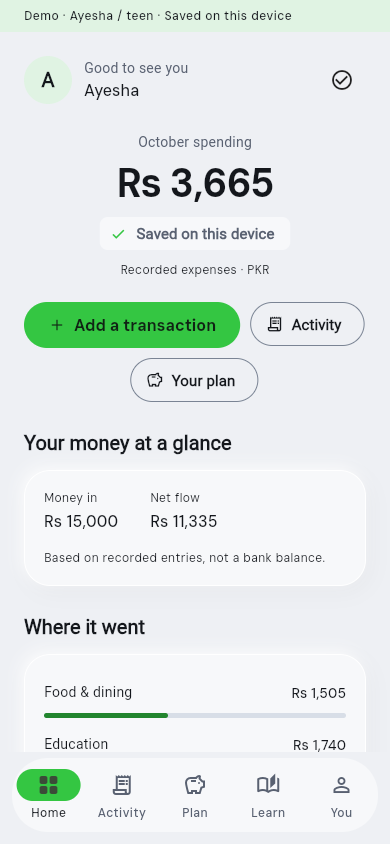
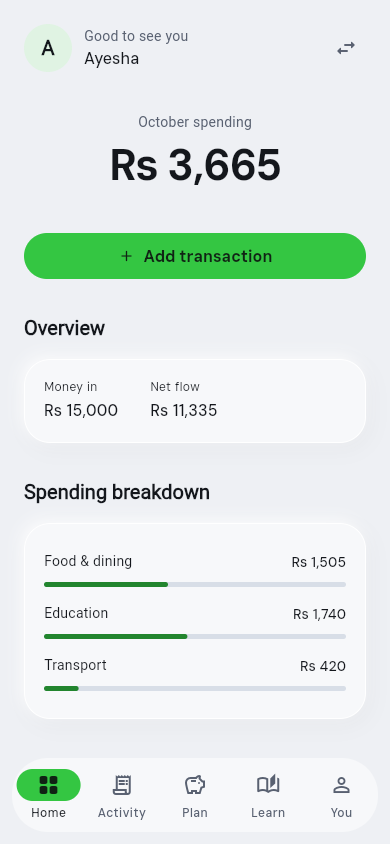
docs: document minimal interaction patterns and refreshed screen evidence

diff --git a/docs/VERIFICATION.md b/docs/VERIFICATION.md
@@ -1,8 +1,8 @@
 # Demo verification
 
-21 domain, repository, controller and widget tests passed. Coverage includes persistent shared demo records, persona restoration, reset, mutual family approval, read-only parent enforcement, access removal, exact money parsing, validated transactions/budgets/goals, and narrow/large-text layouts. Analyzer is clean.
+25 domain, repository, controller and widget tests passed. Coverage includes persistent shared demo records, persona restoration, reset, mutual family approval, read-only parent enforcement, access removal, exact money parsing, validated transactions/budgets/goals, narrow/large-text layouts, profile/appearance sheets, retained searches, empty-filter recovery, carousel buttons and startup skeleton. Analyzer is clean.
 
-Web release compilation and Windows Android arm64 debug APK compilation pass. Chrome at 390 × 844 verified teen and parent dashboards, Plan, Learn, persona switching and parent restoration after reload, with zero page errors. Light and dark screenshots were visually inspected. Widgets cover 320px and 200% text scaling. This is targeted usability/accessibility verification, not certification of every HCI principle or an assistive-device audit.
+Web release compilation and Windows Android arm64 debug APK compilation pass. Chrome at 390 × 844 verified teen and parent dashboards, Plan, Learn, persona switching, transaction save feedback, live total updates, search retention, goal creation/carousel navigation, appearance changes and parent restoration after reload, with zero page errors. Light and dark screenshots were visually inspected. Widgets cover 320px and 200% text scaling. This is targeted usability/accessibility verification, not certification of every HCI principle or an assistive-device audit.
 
 Measured light-theme sRGB contrast: button text #102314 on #34C642 **7.31:1**; body #14171C on #EEF0F4 **15.74:1**; secondary #596171 on #EEF0F4 **5.46:1**; readable green #216D2C on #F7F8FA **6.01:1**. Selected navigation icons use dark primary text in both themes.
 
@@ -15,3 +15,11 @@ Demo records stay on this device. Authentication and cloud synchronization are d
 | Introduction | Learning | Dark theme |
 |---|---|---|
 | ![Introduction](screenshots/onboarding.png) | ![Learning](screenshots/learn.png) | ![Dark](screenshots/teen-dark.png) |
+
+| Profile sheet | Settings | Transaction sheet |
+|---|---|---|
+| ![Profile sheet](screenshots/profile-sheet.png) | ![Settings](screenshots/settings.png) | ![Transaction](screenshots/transaction-sheet.png) |
+
+| Activity | Goal carousel |
+|---|---|
+| ![Activity](screenshots/activity.png) | ![Goal carousel](screenshots/goals-carousel.png) |

diff --git a/docs/DESIGN.md b/docs/DESIGN.md
@@ -7,3 +7,11 @@ Light: canvas #EEF0F4, surface #F7F8FA, text #14171C, secondary text #596171, pr
 DM Sans is bundled. Large amounts use tabular figures. Home centers recorded monthly spending, followed by explicit actions and supporting metrics. Activity, Plan, Learn, You, onboarding, forms and family settings share tokens and components. Native Material controls provide semantics, focus and selection behavior. Forms use native numeric keyboards, persistent labels and inline validation; deletion/reset require confirmation. Parent controls remain read-only in both the UI and controller. Layouts scroll and adapt to large text rather than truncating financial records.
 
 The reference does not define dark, error, loading or large-text states; these are Bachat adaptations required by the user's request for an integrated usable app. No bank transfers, payment keypad or unsupported banking action is implied.
+
+## Minimal interface polish
+
+Headings are concise, amounts use a 44px tabular display style, and section spacing is 36px above / 18px below. One primary action per screen replaces duplicate navigation actions. Repeated demo/storage notices and explanatory paragraphs are removed. Identity remains visible through names and roles; read-only child access is labeled.
+
+Profile and appearance settings open native modal sheets. Forms share drag handles, rounded sheet surfaces, keyboard-aware padding and dismissible confirmation feedback. Learning uses a compact coming-soon badge; savings and over-budget badges carry meaningful status. Multiple home goals become a horizontally scrollable carousel with visible continuation and keyboard-accessible previous/next controls. A single goal remains a card.
+
+Navigation retains each tab’s state and uses a restrained 150ms selection animation. Reduced motion disables sheet/carousel movement and selection animation; theme swaps are instantaneous. The static startup skeleton reflects actual initialization without introducing a delay or perpetual shimmer.

diff --git a/README.md b/README.md
@@ -9,7 +9,7 @@ Run with Flutter **3.47.7 / Dart 3.13.5**:
 ./scripts/dev.ps1
 ```
 
-Preview: http://127.0.0.1:8080. Choose **Skip introduction**, then explore as **Ayesha** (teen, 16) or **Sana** (parent). Switch personas from **You**. Both share one persistent local demo family. No sign-in, environment configuration or internet connection is required after installation. Reset sample data from settings with confirmation.
+Preview: http://127.0.0.1:8080. Choose **Skip introduction**, then continue as **Ayesha** (teen, 16) or **Sana** (parent). Switch profiles from the home header or **You**. Both share one persistent local demo family. No sign-in, environment configuration or internet connection is required after installation. Reset sample data from settings with confirmation.
 
 On other machines:
 
@@ -32,3 +32,5 @@ flutter build apk --debug
 ```
 
 Private repository: https://github.com/saim-x/bachat-mobile. See [current demo decisions](docs/DEMO-EXPERIENCE.md). iOS signing and device validation require the team's Mac. Automatic imports and learning content remain deferred. Recorded net flow is not a bank balance.
+
+Interface polish: profile/appearance bottom sheets, contextual badges, multi-goal carousel, retained tab/search state, clear-filter recovery, save/delete feedback, real startup skeleton and reduced-motion-aware navigation. No persistent demo or storage banners appear in the product.

diff --git a/docs/DEMO-EXPERIENCE.md b/docs/DEMO-EXPERIENCE.md
@@ -5,3 +5,5 @@ The October 10 reference supersedes the earlier cream/forest direction. Approxim
 Authentication is deferred. Launch offers Ayesha (teen, 16) and Sana (parent). Both use one persistent local demo family; switching personas never deletes transactions, budgets, goals or approvals. No Google sign-in or Supabase credentials are needed. Demo data never enters the cloud. Family approval can be explored locally and does not represent real identity verification.
 
 Usability priorities: visible persona and state, descriptive actions, parent read-only enforcement, reversible edits with confirmed deletion, validation beside fields, native keyboard/focus behavior, labeled controls, generous touch targets, 320px reflow and 200% text scaling. Green buttons use dark text to preserve contrast. Learning remains coming soon.
+
+The subsequent minimalism pass removes persistent “Demo” and device-storage messaging from product screens. Names/roles identify the active persona; this document and README explain the local sample environment. Authentication remains deferred.
